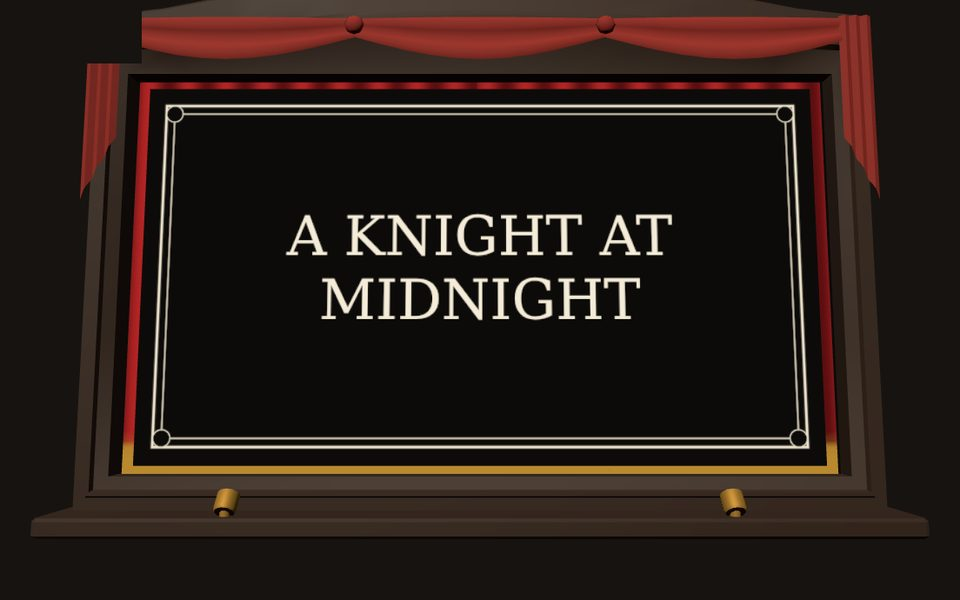
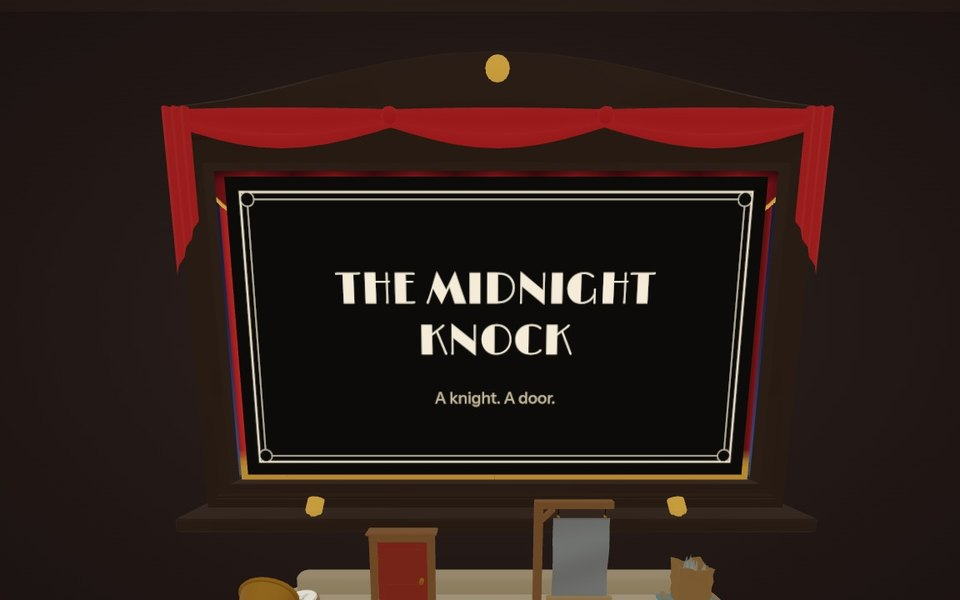
The page's step pictures are cut from the latest full-HD take (the right title, the market, the cream tickets), and a capture can lean in over the table when the thief lands

diff --git a/index.html b/index.html
@@ -99,12 +99,12 @@
           <h2 id="how-h">How to play</h2>
           <ol class="s-steps">
             <li>
-              <img src="/landing/curtain.jpg" alt="The toy theatre's title card: A Knight at Midnight" width="960" height="600" loading="lazy" decoding="async" />
+              <img src="/landing/curtain.jpg" alt="The toy theatre's title card for the first reel: The Midnight Knock. A knight. A door." width="960" height="600" loading="lazy" decoding="async" />
               <h3><span class="n" aria-hidden="true">1</span>Tap the clapper</h3>
               <p>The curtain rises on the first reel. In the headset, tap it with a finger; here, click it or press Space.</p>
             </li>
             <li>
-              <img src="/landing/knock.jpg" alt="A knight waits at the castle gate while a card on the stage asks you to knock for him" width="960" height="600" loading="lazy" decoding="async" />
+              <img src="/landing/knock.jpg" alt="A knight waits at the castle gate, a guard asleep beside it, while a ticket under the stage asks you to knock for him; a hand reaches for the little door" width="960" height="600" loading="lazy" decoding="async" />
               <h3><span class="n" aria-hidden="true">2</span>Make the sound</h3>
               <p>The stage waits for you. Coconut shells for hooves, a little door to knock and slam, a desk bell, a thunder sheet, a slide whistle and a bag of glass: three knocks open the castle gate, and the knight’s horse runs only as fast as you clop.</p>
             </li>
@@ -114,7 +114,7 @@
               <p>Your thunder bursts the theatre open to the size of your wall. Then your crash of glass breaks the picture itself: the thief jumps down onto your desk, and your slide whistle sends him over the edge.</p>
             </li>
             <li>
-              <img src="/landing/next.jpg" alt="The card after a reel: What happens next? Ride after the thief, a storm in the graveyard, or ask at the inn" width="960" height="600" loading="lazy" decoding="async" />
+              <img src="/landing/next.jpg" alt="The card after a reel: What happens next? Ride after the thief, a storm in the graveyard, or ask at the market. Make its sound, or hold the megaphone and say anything." width="960" height="600" loading="lazy" decoding="async" />
               <h3><span class="n" aria-hidden="true">4</span>Choose what happens next</h3>
               <p>After each reel a card asks what happens next. Sound a prop to choose, or hold the megaphone and say your own idea, and the next reel is written around it.</p>
             </li>
